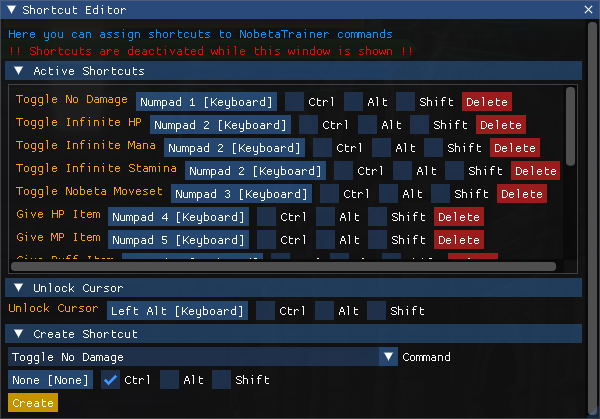
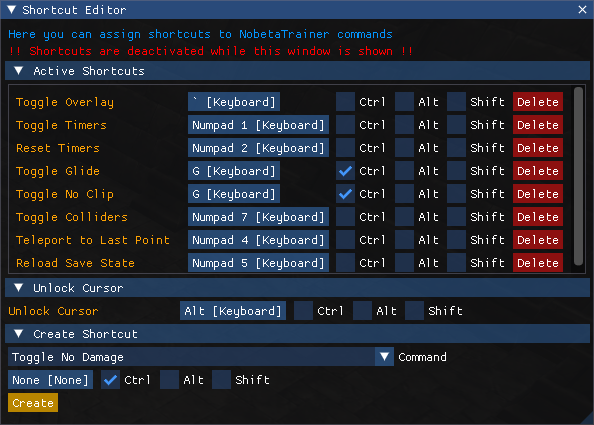
Update shortcut editor preview

diff --git a/NobetaTrainer/Overlay/TrainerShortcutEditorWindow.cs b/NobetaTrainer/Overlay/TrainerShortcutEditorWindow.cs
@@ -39,6 +39,7 @@ public partial class NobetaTrainerOverlay
         {
             if (commandAction.TrainerCommand.CommandType != CommandType.None)
             {
+                ImGui.AlignTextToFramePadding();
                 ImGui.TextColored(ValueColor, commandAction.TrainerCommand.CommandType.Humanize(LetterCasing.Title));
                 ImGui.SameLine(180);
             }
@@ -59,7 +60,7 @@ public partial class NobetaTrainerOverlay
             }
 
 
-            ImGui.SameLine(195 + pathOffset * 7);
+            ImGui.SameLine(pathOffset == 0 ? 0 : 195 + pathOffset * 7);
             ImGui.Checkbox($"Ctrl##{commandAction.ActionId}", ref ctrlModifier);
             ImGui.SameLine();
             ImGui.Checkbox($"Alt##{commandAction.ActionId}", ref altModifier);
